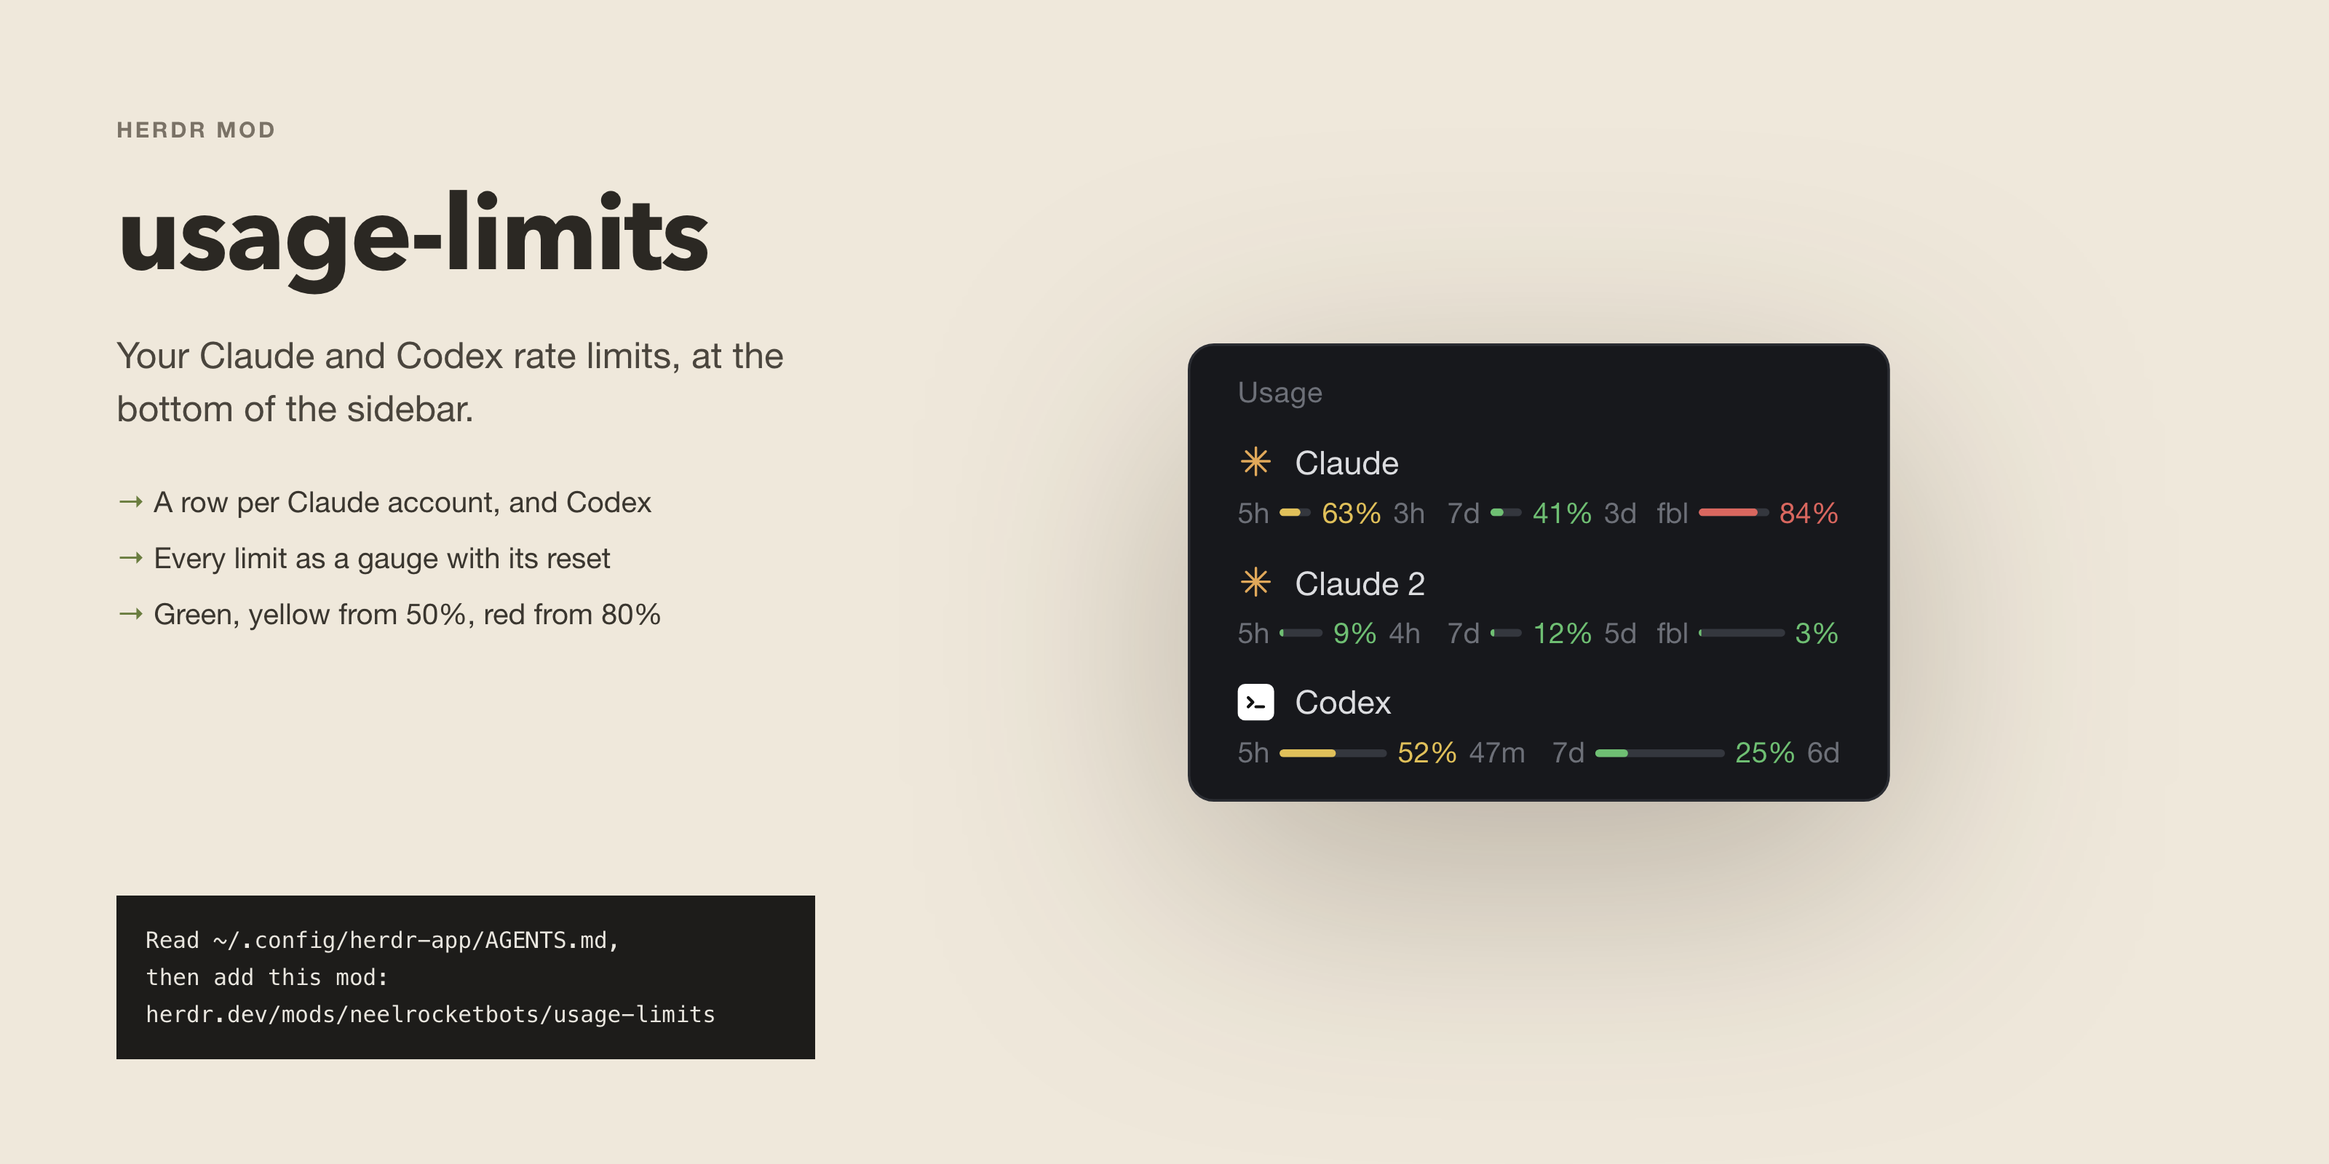
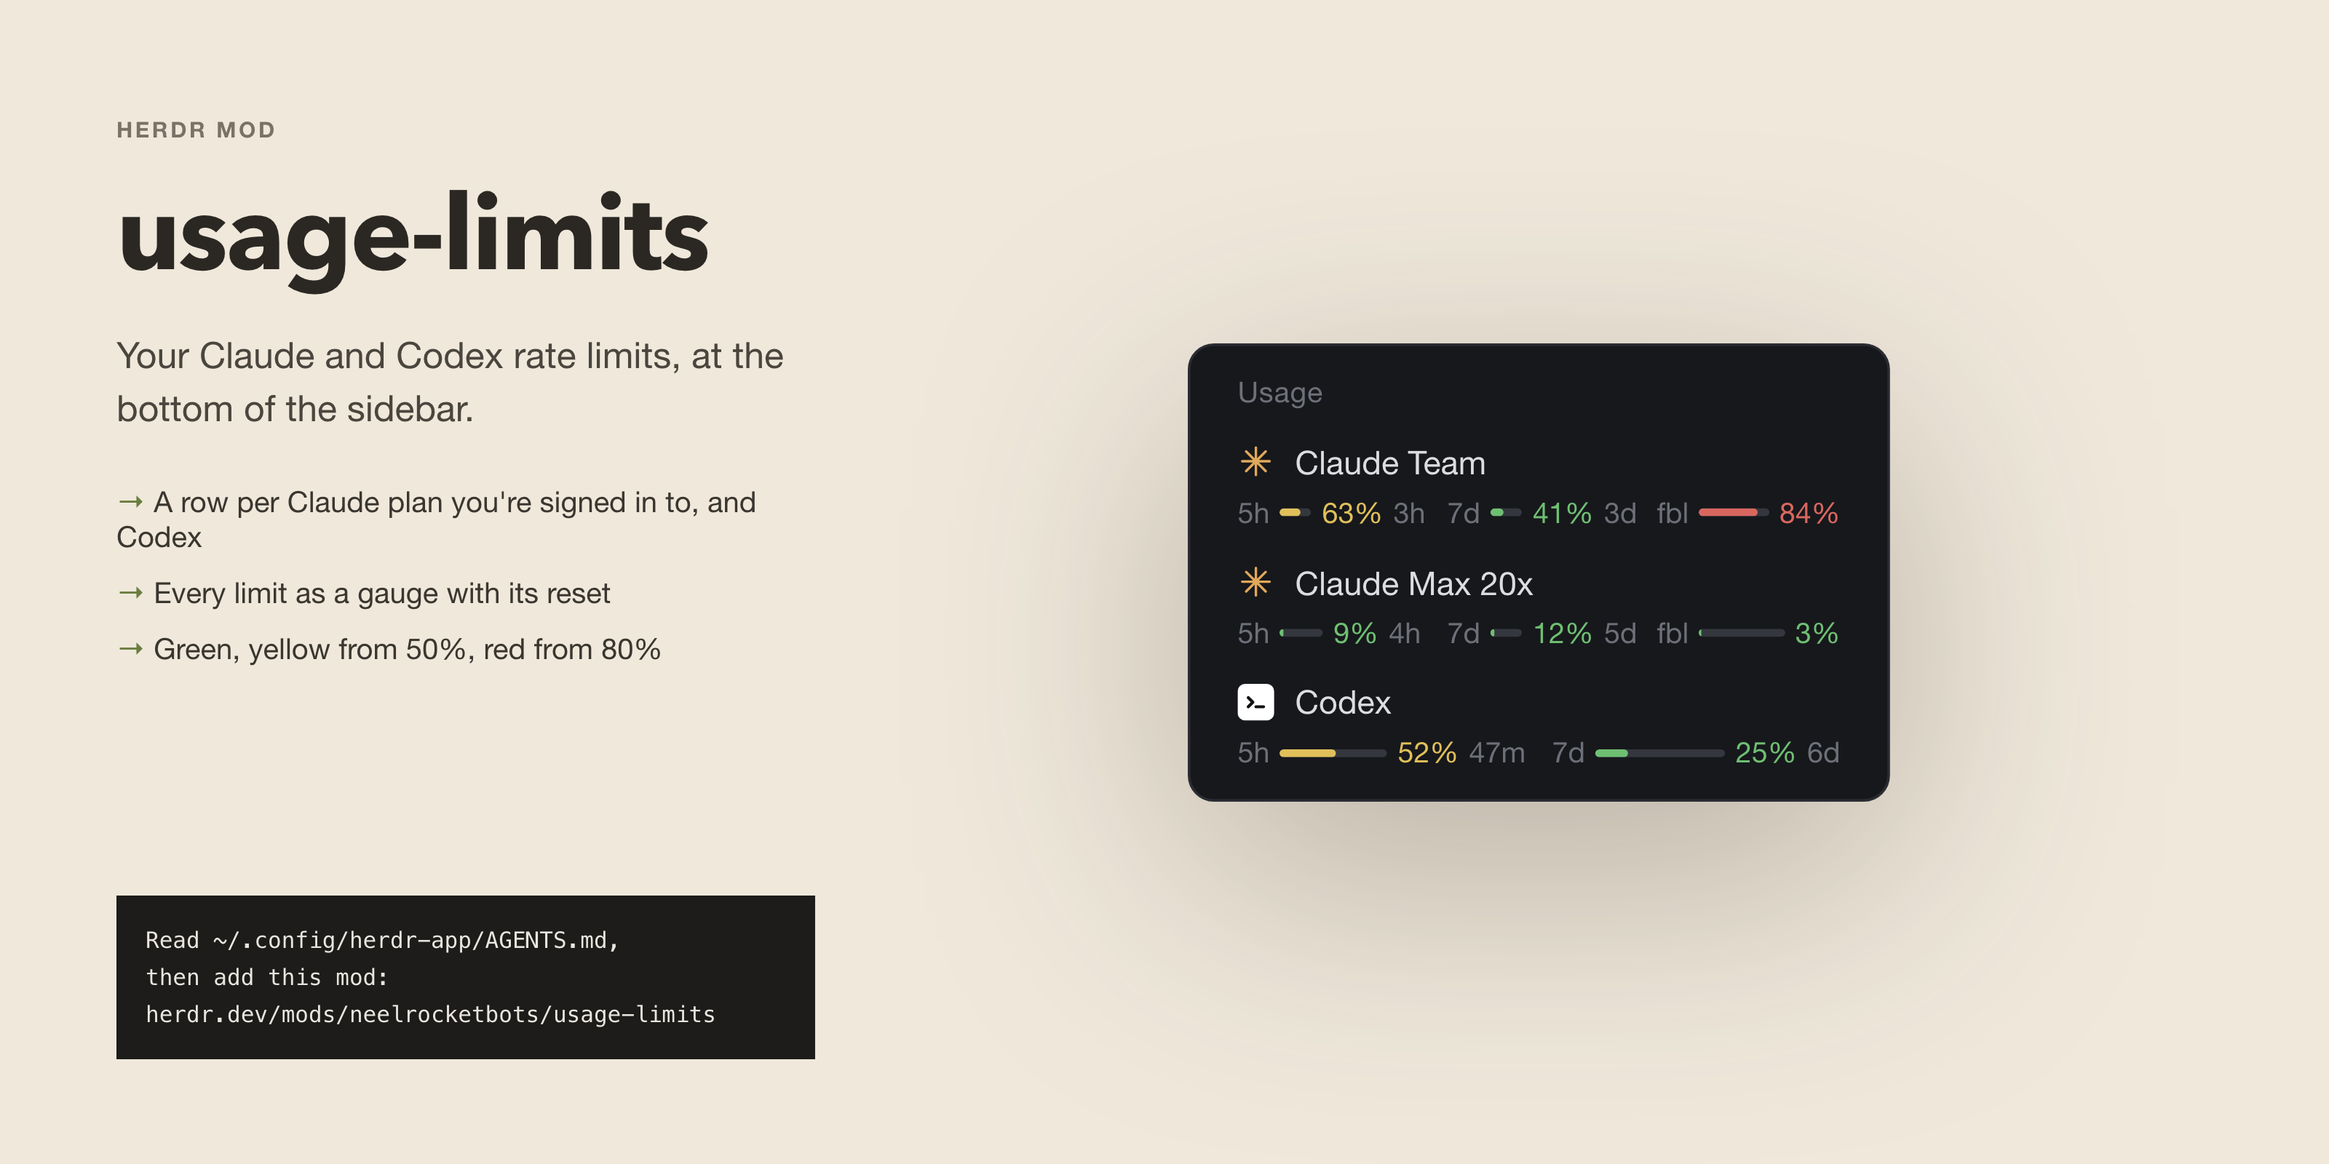
feat(usage-limits): name Claude rows by plan
Rows read Claude Team, Claude Max 20x from the login's subscriptionType and
rateLimitTier; same plan twice adds the folder suffix.

diff --git a/custom-herdr/mods/usage-limits/main.js b/custom-herdr/mods/usage-limits/main.js
@@ -58,14 +58,16 @@ const abbrev = (name) => { const w = name.toLowerCase().replace(/[^a-z]/g, ""); 
 // Claude Code config folders: ~/.claude and ~/.claude<anything> folders.
 const CLAUDE_DIRS = `for d in "$HOME"/.claude "$HOME"/.claude?*; do [ -d "$d" ] && printf '%s\\n' "$d"; done`;
 
-// sh -c CLAUDE_USAGE sh <config folder>. Prints the usage JSON, then the HTTP
-// status on its own last line. Exit 3: no login there; 4: its token expired.
+// sh -c CLAUDE_USAGE sh <config folder>. Prints the login's plan and rate tier
+// ("team\tdefault_claude_max_5x"), the usage JSON, then the HTTP status on its
+// own last line. Exit 3: no login there; 4: its token expired.
 const CLAUDE_USAGE = `svc="Claude Code-credentials"
 [ "$1" = "$HOME/.claude" ] || svc="$svc-$(printf %s "$1" | shasum -a 256 | cut -c1-8)"
 c=$(security find-generic-password -s "$svc" -w 2>/dev/null) || exit 3
 t=$(printf %s "$c" | plutil -extract claudeAiOauth.accessToken raw -o - - 2>/dev/null) || exit 3
 e=$(printf %s "$c" | plutil -extract claudeAiOauth.expiresAt raw -o - - 2>/dev/null)
 [ -n "$e" ] && [ $(( e / 1000 )) -lt "$(date +%s)" ] && exit 4
+printf '%s\t%s\n' "$(printf %s "$c" | plutil -extract claudeAiOauth.subscriptionType raw -o - - 2>/dev/null)" "$(printf %s "$c" | plutil -extract claudeAiOauth.rateLimitTier raw -o - - 2>/dev/null)"
 printf 'Authorization: Bearer %s\\n' "$t" | curl -sS --max-time 10 -H @- -H 'anthropic-beta: oauth-2025-04-20' -w '\\n%{http_code}' https://api.anthropic.com/api/oauth/usage`;
 
 // Claude: limits [{ kind, percent, resets_at, scope }] -> limits.
@@ -84,8 +86,16 @@ function claudeLimits(json) {
   return limits;
 }
 
-// ".claude" -> "Claude", ".claude2" -> "Claude 2", ".claude-work" -> "Claude work".
-const claudeName = (dir) => `Claude ${dir.split("/").pop().replace(/^\.claude[-_.]?/, "")}`.trim();
+// The login's plan: "team" -> "Claude Team"; "max" with tier
+// "default_claude_max_20x" -> "Claude Max 20x" (the multiplier only when the
+// tier is the plan's own). No plan: "Claude".
+function planName(plan, tier) {
+  if (!plan) return "Claude";
+  const mult = tier?.match(new RegExp(`${plan}_(\\d+x)$`, "i"))?.[1];
+  return `Claude ${plan[0].toUpperCase()}${plan.slice(1)}${mult ? ` ${mult}` : ""}`;
+}
+// ".claude2" -> "2", ".claude-work" -> "work", ".claude" -> "".
+const folderTag = (dir) => dir.split("/").pop().replace(/^\.claude[-_.]?/, "");
 
 // Codex: { primary, secondary: { used_percent, window_minutes, resets_at (s) } } -> limits.
 function codexLimits(rl) {
@@ -144,13 +154,14 @@ export default class UsageLimits extends View {
         if (Date.now() < (this.waitUntil[dir] ?? 0)) return;
         const u = await exec("sh", ["-c", CLAUDE_USAGE, "sh", dir], { timeout: 20_000 }).catch(() => null);
         if (!u || u.code !== 0) return; // no login there, expired token, or offline: keep the last answer
-        const nl = u.stdout.lastIndexOf("\n");
+        const first = u.stdout.indexOf("\n"), nl = u.stdout.lastIndexOf("\n");
+        const [plan, tier] = u.stdout.slice(0, first).split("\t");
         const status = Number(u.stdout.slice(nl + 1));
         if (status === 429) { this.waitUntil[dir] = Date.now() + BACKOFF_MS; return; }
         if (status !== 200) return;
         try {
-          const limits = claudeLimits(JSON.parse(u.stdout.slice(0, nl)));
-          if (limits.length) this.set({ key: `claude:${dir}`, name: claudeName(dir), tip: dir.replace(home(), "~"), icon: "claude", limits, at: Date.now() }, cx);
+          const limits = claudeLimits(JSON.parse(u.stdout.slice(first + 1, nl)));
+          if (limits.length) this.set({ key: `claude:${dir}`, name: planName(plan, tier), tag: folderTag(dir), tip: dir.replace(home(), "~"), icon: "claude", limits, at: Date.now() }, cx);
         } catch {}
       }));
     });
@@ -196,9 +207,11 @@ export default class UsageLimits extends View {
       if (!p?.icon) return div().size(14).flex_none();
       return p.tint ? svg(p.icon).size(14).flex_none().text_color(p.color ?? t.muted) : image(p.icon).w(14).h(14).flex_none();
     };
-    // Claude accounts first (~/.claude, then the others by name), then Codex.
+    // Claude accounts first (~/.claude, then the other folders), then Codex.
+    // Two accounts on the same plan: the second gets its folder, "Claude Max · 2".
     const rows = Object.values(this.rows).filter((s) => s.limits?.length)
-      .sort((a, b) => (a.icon === b.icon ? a.name.localeCompare(b.name) : a.icon === "claude" ? -1 : 1));
+      .sort((a, b) => (a.icon === b.icon ? a.key.localeCompare(b.key) : a.icon === "claude" ? -1 : 1))
+      .map((s, i, all) => (s.tag && all.some((o) => o !== s && o.name === s.name) ? { ...s, name: `${s.name} · ${s.tag}` } : s));
     // `5h ━── 8% 4h`: label, a bar sharing the row's width, the %, the
     // countdown. Collapsed: the bar alone.
     const gauge = (l, id) => h_flex().flex_1().min_w(0).gap(4).items_center().text_size(11)

diff --git a/usage-limits/mods/usage-limits/main.js b/usage-limits/mods/usage-limits/main.js
@@ -58,14 +58,16 @@ const abbrev = (name) => { const w = name.toLowerCase().replace(/[^a-z]/g, ""); 
 // Claude Code config folders: ~/.claude and ~/.claude<anything> folders.
 const CLAUDE_DIRS = `for d in "$HOME"/.claude "$HOME"/.claude?*; do [ -d "$d" ] && printf '%s\\n' "$d"; done`;
 
-// sh -c CLAUDE_USAGE sh <config folder>. Prints the usage JSON, then the HTTP
-// status on its own last line. Exit 3: no login there; 4: its token expired.
+// sh -c CLAUDE_USAGE sh <config folder>. Prints the login's plan and rate tier
+// ("team\tdefault_claude_max_5x"), the usage JSON, then the HTTP status on its
+// own last line. Exit 3: no login there; 4: its token expired.
 const CLAUDE_USAGE = `svc="Claude Code-credentials"
 [ "$1" = "$HOME/.claude" ] || svc="$svc-$(printf %s "$1" | shasum -a 256 | cut -c1-8)"
 c=$(security find-generic-password -s "$svc" -w 2>/dev/null) || exit 3
 t=$(printf %s "$c" | plutil -extract claudeAiOauth.accessToken raw -o - - 2>/dev/null) || exit 3
 e=$(printf %s "$c" | plutil -extract claudeAiOauth.expiresAt raw -o - - 2>/dev/null)
 [ -n "$e" ] && [ $(( e / 1000 )) -lt "$(date +%s)" ] && exit 4
+printf '%s\t%s\n' "$(printf %s "$c" | plutil -extract claudeAiOauth.subscriptionType raw -o - - 2>/dev/null)" "$(printf %s "$c" | plutil -extract claudeAiOauth.rateLimitTier raw -o - - 2>/dev/null)"
 printf 'Authorization: Bearer %s\\n' "$t" | curl -sS --max-time 10 -H @- -H 'anthropic-beta: oauth-2025-04-20' -w '\\n%{http_code}' https://api.anthropic.com/api/oauth/usage`;
 
 // Claude: limits [{ kind, percent, resets_at, scope }] -> limits.
@@ -84,8 +86,16 @@ function claudeLimits(json) {
   return limits;
 }
 
-// ".claude" -> "Claude", ".claude2" -> "Claude 2", ".claude-work" -> "Claude work".
-const claudeName = (dir) => `Claude ${dir.split("/").pop().replace(/^\.claude[-_.]?/, "")}`.trim();
+// The login's plan: "team" -> "Claude Team"; "max" with tier
+// "default_claude_max_20x" -> "Claude Max 20x" (the multiplier only when the
+// tier is the plan's own). No plan: "Claude".
+function planName(plan, tier) {
+  if (!plan) return "Claude";
+  const mult = tier?.match(new RegExp(`${plan}_(\\d+x)$`, "i"))?.[1];
+  return `Claude ${plan[0].toUpperCase()}${plan.slice(1)}${mult ? ` ${mult}` : ""}`;
+}
+// ".claude2" -> "2", ".claude-work" -> "work", ".claude" -> "".
+const folderTag = (dir) => dir.split("/").pop().replace(/^\.claude[-_.]?/, "");
 
 // Codex: { primary, secondary: { used_percent, window_minutes, resets_at (s) } } -> limits.
 function codexLimits(rl) {
@@ -144,13 +154,14 @@ export default class UsageLimits extends View {
         if (Date.now() < (this.waitUntil[dir] ?? 0)) return;
         const u = await exec("sh", ["-c", CLAUDE_USAGE, "sh", dir], { timeout: 20_000 }).catch(() => null);
         if (!u || u.code !== 0) return; // no login there, expired token, or offline: keep the last answer
-        const nl = u.stdout.lastIndexOf("\n");
+        const first = u.stdout.indexOf("\n"), nl = u.stdout.lastIndexOf("\n");
+        const [plan, tier] = u.stdout.slice(0, first).split("\t");
         const status = Number(u.stdout.slice(nl + 1));
         if (status === 429) { this.waitUntil[dir] = Date.now() + BACKOFF_MS; return; }
         if (status !== 200) return;
         try {
-          const limits = claudeLimits(JSON.parse(u.stdout.slice(0, nl)));
-          if (limits.length) this.set({ key: `claude:${dir}`, name: claudeName(dir), tip: dir.replace(home(), "~"), icon: "claude", limits, at: Date.now() }, cx);
+          const limits = claudeLimits(JSON.parse(u.stdout.slice(first + 1, nl)));
+          if (limits.length) this.set({ key: `claude:${dir}`, name: planName(plan, tier), tag: folderTag(dir), tip: dir.replace(home(), "~"), icon: "claude", limits, at: Date.now() }, cx);
         } catch {}
       }));
     });
@@ -196,9 +207,11 @@ export default class UsageLimits extends View {
       if (!p?.icon) return div().size(14).flex_none();
       return p.tint ? svg(p.icon).size(14).flex_none().text_color(p.color ?? t.muted) : image(p.icon).w(14).h(14).flex_none();
     };
-    // Claude accounts first (~/.claude, then the others by name), then Codex.
+    // Claude accounts first (~/.claude, then the other folders), then Codex.
+    // Two accounts on the same plan: the second gets its folder, "Claude Max · 2".
     const rows = Object.values(this.rows).filter((s) => s.limits?.length)
-      .sort((a, b) => (a.icon === b.icon ? a.name.localeCompare(b.name) : a.icon === "claude" ? -1 : 1));
+      .sort((a, b) => (a.icon === b.icon ? a.key.localeCompare(b.key) : a.icon === "claude" ? -1 : 1))
+      .map((s, i, all) => (s.tag && all.some((o) => o !== s && o.name === s.name) ? { ...s, name: `${s.name} · ${s.tag}` } : s));
     // `5h ━── 8% 4h`: label, a bar sharing the row's width, the %, the
     // countdown. Collapsed: the bar alone.
     const gauge = (l, id) => h_flex().flex_1().min_w(0).gap(4).items_center().text_size(11)

diff --git a/docs/mockups/usage.html b/docs/mockups/usage.html
@@ -12,8 +12,8 @@
 <body style="padding:20px">
 <div class="usage col">
   <div class="label" style="padding:2px 8px 4px">Usage</div>
-  <div class="acct col"><div class="row" style="gap:8px"><i data-i="claude" style="color:var(--orange)"></i><span>Claude</span></div><div class="gs row"><span class="g row"><span class="dim">5h</span><span class="tr"><span style="width:63%;background:var(--yellow)"></span></span><span style="color:var(--yellow)">63%</span><span class="dim">3h</span></span><span class="g row"><span class="dim">7d</span><span class="tr"><span style="width:41%;background:var(--green)"></span></span><span style="color:var(--green)">41%</span><span class="dim">3d</span></span><span class="g row"><span class="dim">fbl</span><span class="tr"><span style="width:84%;background:var(--red)"></span></span><span style="color:var(--red)">84%</span></span></div></div>
-  <div class="acct col"><div class="row" style="gap:8px"><i data-i="claude" style="color:var(--orange)"></i><span>Claude 2</span></div><div class="gs row"><span class="g row"><span class="dim">5h</span><span class="tr"><span style="width:9%;background:var(--green)"></span></span><span style="color:var(--green)">9%</span><span class="dim">4h</span></span><span class="g row"><span class="dim">7d</span><span class="tr"><span style="width:12%;background:var(--green)"></span></span><span style="color:var(--green)">12%</span><span class="dim">5d</span></span><span class="g row"><span class="dim">fbl</span><span class="tr"><span style="width:3%;background:var(--green)"></span></span><span style="color:var(--green)">3%</span></span></div></div>
+  <div class="acct col"><div class="row" style="gap:8px"><i data-i="claude" style="color:var(--orange)"></i><span>Claude Team</span></div><div class="gs row"><span class="g row"><span class="dim">5h</span><span class="tr"><span style="width:63%;background:var(--yellow)"></span></span><span style="color:var(--yellow)">63%</span><span class="dim">3h</span></span><span class="g row"><span class="dim">7d</span><span class="tr"><span style="width:41%;background:var(--green)"></span></span><span style="color:var(--green)">41%</span><span class="dim">3d</span></span><span class="g row"><span class="dim">fbl</span><span class="tr"><span style="width:84%;background:var(--red)"></span></span><span style="color:var(--red)">84%</span></span></div></div>
+  <div class="acct col"><div class="row" style="gap:8px"><i data-i="claude" style="color:var(--orange)"></i><span>Claude Max 20x</span></div><div class="gs row"><span class="g row"><span class="dim">5h</span><span class="tr"><span style="width:9%;background:var(--green)"></span></span><span style="color:var(--green)">9%</span><span class="dim">4h</span></span><span class="g row"><span class="dim">7d</span><span class="tr"><span style="width:12%;background:var(--green)"></span></span><span style="color:var(--green)">12%</span><span class="dim">5d</span></span><span class="g row"><span class="dim">fbl</span><span class="tr"><span style="width:3%;background:var(--green)"></span></span><span style="color:var(--green)">3%</span></span></div></div>
   <div class="acct col"><div class="row" style="gap:8px"><svg class="s" viewBox="0 0 24 24"><rect width="24" height="24" rx="5" fill="#fff"/><path d="M7 9l3 3-3 3M12 15h5" stroke="#111" stroke-width="2" fill="none" stroke-linecap="round" stroke-linejoin="round"/></svg><span>Codex</span></div><div class="gs row"><span class="g row"><span class="dim">5h</span><span class="tr"><span style="width:52%;background:var(--yellow)"></span></span><span style="color:var(--yellow)">52%</span><span class="dim">47m</span></span><span class="g row"><span class="dim">7d</span><span class="tr"><span style="width:25%;background:var(--green)"></span></span><span style="color:var(--green)">25%</span><span class="dim">6d</span></span></div></div>
 </div>
 <script src="icons.js"></script>

diff --git a/docs/mockups/card.html b/docs/mockups/card.html
@@ -34,7 +34,7 @@ const UNITS = {
     bullets: ["Changed files and their diffs", "Open the selected file in your editor", "Commit from the panel, as before"],
     page: "changes.html", w: 460, h: 510, scale: 1.3, x: 220, y: 60 },
   "usage-limits": { tag: "Your Claude and Codex rate limits, at the bottom of the sidebar.",
-    bullets: ["A row per Claude account, and Codex", "Every limit as a gauge with its reset", "Green, yellow from 50%, red from 80%"],
+    bullets: ["A row per Claude plan you're signed in to, and Codex", "Every limit as a gauge with its reset", "Green, yellow from 50%, red from 80%"],
     page: "usage.html", w: 310, h: 215, scale: 1.8, x: 220, y: 200 },
   "custom-herdr": { kind: "HERDR LAYOUT", tag: "Herdr's main layout with the whole worktree-per-issue kit wired in.",
     bullets: ["Quick links in the top bar, usage in the sidebar", "Files, Changes and PRs side panels", "Worktree dialog on ⌘⌥N, PR inbox on ⌘⌥P"],

diff --git a/usage-limits/RECIPE.md b/usage-limits/RECIPE.md
@@ -15,8 +15,11 @@ shown as a small gauge with its reset time, like a Claude Code status line.
   % or countdowns), same widths and colors, same tooltip.
 - A row per account, 4px by 8px padding, 7px corners, `hover` background:
   - Line one: the program's icon (14px, from Herdr's program table) and the
-    name in 12.5px `foreground`: "Claude" for `~/.claude`, "Claude 2" for
-    `~/.claude2`, "Claude work" for `~/.claude-work`, then "Codex".
+    name in 12.5px `foreground`. Claude rows are named by the login's plan
+    (`claudeAiOauth.subscriptionType`, capitalized: "Claude Team"), plus the
+    multiplier when `rateLimitTier` is the plan's own (`default_claude_max_20x`
+    on `max`: "Claude Max 20x"); no plan: "Claude". Two rows with the same name:
+    the later folder's gets " · <folder suffix>" ("Claude Max · 2"). Then "Codex".
   - Line two, full width: a gauge per limit, sharing the width equally, 10px
     apart, 11px text: the short name in `dim` (`5h`, `7d`, a model's weekly
     limit as 3 letters: `fbl` for Fable, `ops` for Opus), a 3px bar on `input`
@@ -34,8 +37,9 @@ shown as a small gauge with its reset time, like a Claude Code status line.
 - Claude and Codex, every 5 minutes. Claude: `sh` lists `~/.claude` and `~/.claude?*` folders.
   For each, a shell finds the Keychain item `Claude Code-credentials` (plus
   `-<first 8 hex of sha256(folder path)>` for any folder but `~/.claude`), pulls
-  `claudeAiOauth.accessToken` and `expiresAt` with `plutil`, skips an expired
-  token, and pipes `Authorization: Bearer <token>` to `curl -H @-` with
+  `claudeAiOauth.accessToken`, `expiresAt`, `subscriptionType` and
+  `rateLimitTier` with `plutil`, skips an expired token, prints the plan and
+  tier (not the token), and pipes `Authorization: Bearer <token>` to `curl -H @-` with
   `anthropic-beta: oauth-2025-04-20` for `GET /api/oauth/usage`. The mod gets
   only the JSON and the HTTP status. `limits[]` maps: `session` to 5h,
   `weekly_all` to 7d, `weekly_scoped` to its `scope.model.display_name`. A 429

diff --git a/usage-limits/README.md b/usage-limits/README.md
@@ -8,8 +8,9 @@ It works on its own, with nothing from your status line.
 
 ## What it does
 
-- **A row per account**: one per Claude Code config folder with a login
-  (`~/.claude` is "Claude", `~/.claude2` is "Claude 2", ...), and Codex.
+- **A row per account**: one per Claude Code config folder with a login, named
+  by its plan ("Claude Team", "Claude Max 20x"), and Codex. Two folders on the
+  same plan: the second shows its folder too ("Claude Max · 2").
 - **Gauges across the row**: `5h`, `7d`, and a model's own weekly limit (`fbl`
   for Fable), each with a bar, the % (green, yellow from 50%, red from 80%) and
   the time to reset (`47m`, `3h`, `5d`). The tooltip has the full names and
